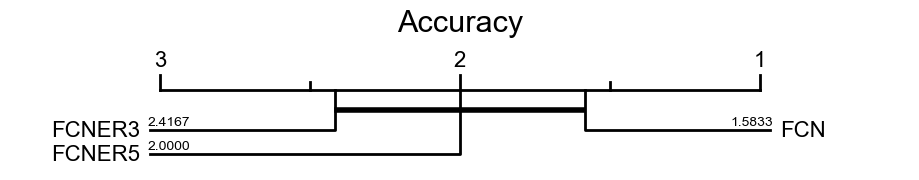
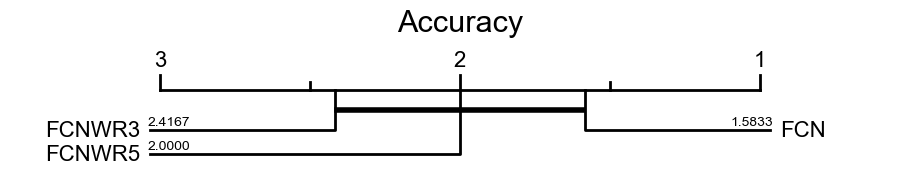
update picture and libraries:

Changed region(s): [[0.0305, 0.8056, 0.1523, 0.9167], [0.0305, 0.6667, 0.1523, 0.7778]]

diff --git a/common/ML.py b/common/ML.py
@@ -72,7 +72,7 @@ def test(epochs, model, test_loader, loss_function, log = False):
 
 #########################################################################################
 
-def standardCycle(epochs,learning_rate, model, train_dl, test_dl,scheduler=True, decay = True, log = False):
+def standardCycle(epochs,learning_rate, model, train_dl, test_dl,scheduler=False, decay = False, log = False):
 
   model.apply(reset_weights)
   train_accuracies = []
@@ -103,7 +103,7 @@ def standardCycle(epochs,learning_rate, model, train_dl, test_dl,scheduler=True,
   print(f"Accuracy on test set: {test_acc:.2f}")
   return test_acc, Losses, train_accuracies, test_accuracies, test_pred, test_exp
 
-def model_module(epochs,learning_rate, model, train_dl, test_dl, scheduler=True, decay = True, log = False):
+def model_module(epochs,learning_rate, model, train_dl, test_dl, scheduler=False, decay = False, log = False):
     
   model.apply(reset_weights)
   # Loss and optimizer

diff --git a/resnet-mean.py b/resnet-mean.py
@@ -90,17 +90,29 @@ wrner33 = np.array([
 82.13,
 75.48,
 48.31,
-
-
+])
+wrner55 = np.array([
+66.33,
+79.50,
+100.00,
+72.37,
+66.26,
+89.00,
+72.19,
+98.20,
+96.05,
+80.98,
+70.00,
+49.42,
 ])
 
 col = []
-for j in [ResNet1D,wrn3,wrn5,rner3,rner5,wrner33]:
+for j in [ResNet1D,wrn3,wrn5,rner3,rner5,wrner33,wrner55]:
     row = []
-    for i in [ResNet1D,wrn3,wrn5,rner3,rner5,wrner33]:
+    for i in [ResNet1D,wrn3,wrn5,rner3,rner5,wrner33, wrner55]:
         row.append(100*2/12*sum((j - i)/(j + i)))
     col.append(row)
-labels = ["ResNet", "WRN3", "WRN5", "RNER3", "RNER5", "WRN33"]
+labels = ["ResNet", "WRN3", "WRN5", "RNWR3", "RNWR5", "WRNWR33", "WRNWR55"]
 sns.set(font_scale=0.6)
 plot = sns.heatmap(col, annot=True, xticklabels =labels, yticklabels= labels)
 plot.xaxis.tick_top()

diff --git a/cd-diagram-master/main.py b/cd-diagram-master/main.py
@@ -298,7 +298,7 @@ def draw_cd_diagram(df_perf=None, alpha=0.05, title=None, labels=False):
         }
     if title:
         plt.title(title,fontdict=font, y=0.9, x=0.5)
-    plt.savefig('WFCNER33-Wilcoxon.png',bbox_inches='tight')
+    plt.savefig('WRNER33-Wilcoxon.png',bbox_inches='tight')
 
 def wilcoxon_holm(alpha=0.05, df_perf=None):
     """
@@ -378,6 +378,6 @@ def wilcoxon_holm(alpha=0.05, df_perf=None):
     # return the p-values and the average ranks
     return p_values, average_ranks, max_nb_datasets
 
-df_perf = pd.read_csv('fcn-test.csv',index_col=False)
+df_perf = pd.read_csv('resnet-test.csv',index_col=False)
 
 draw_cd_diagram(df_perf=df_perf, title='Accuracy', labels=True)

diff --git a/mean-fcn.py b/mean-fcn.py
@@ -124,7 +124,7 @@ for j in [fcn,wfcn3,wfcn5,fcner3,fcner5,wfcner33,wfcner55,wfcner35]:
     for i in [fcn,wfcn3,wfcn5,fcner3,fcner5,wfcner33,wfcner55,wfcner35]:
         row.append(100*2/12*sum((j - i)/(j + i)))
     col.append(row)
-labels = ["FCN", "WFCN3", "WFCN5", "FCNER3", "FCNER5", "WFCN33", "WFCN55", "WFCN35"]
+labels = ["FCN", "WFCN3", "WFCN5", "FCNWR3", "FCNWR5", "WFCNWR33", "WFCNWR55", "WFCNWR35"]
 sns.set(font_scale=0.6)
 plot = sns.heatmap(col, annot=True, xticklabels =labels, yticklabels= labels)
 plot.xaxis.set_label_position('top')

diff --git a/common/ESMR.py b/common/ESMR.py
@@ -71,7 +71,7 @@ class _MockWarpFunction(Function):
   def forward(ctx, scores):
     dev = scores.device
     dtype = scores.dtype
-    sum = torch.sum(scores,3)                            # Sum each channels up  
+    sum = torch.sum(scores,dim=3)                            
     max = torch.max(sum,dim=2)
     #mask
     max_mask = torch.zeros(scores.shape).to(dev).type(dtype)
